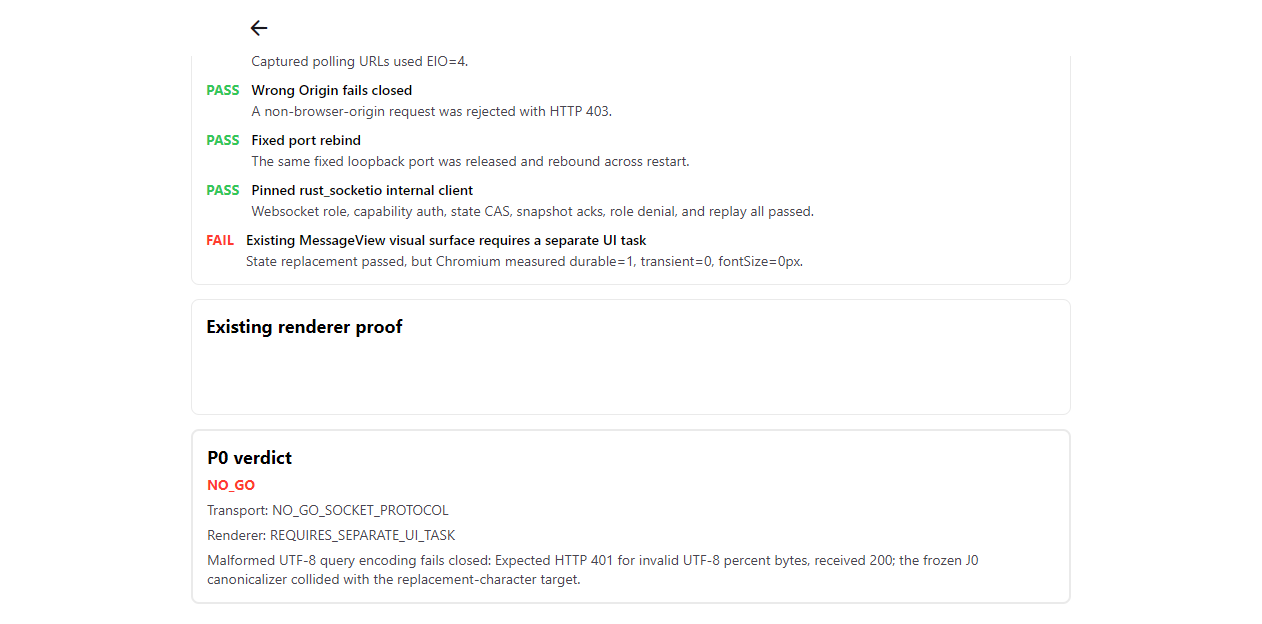
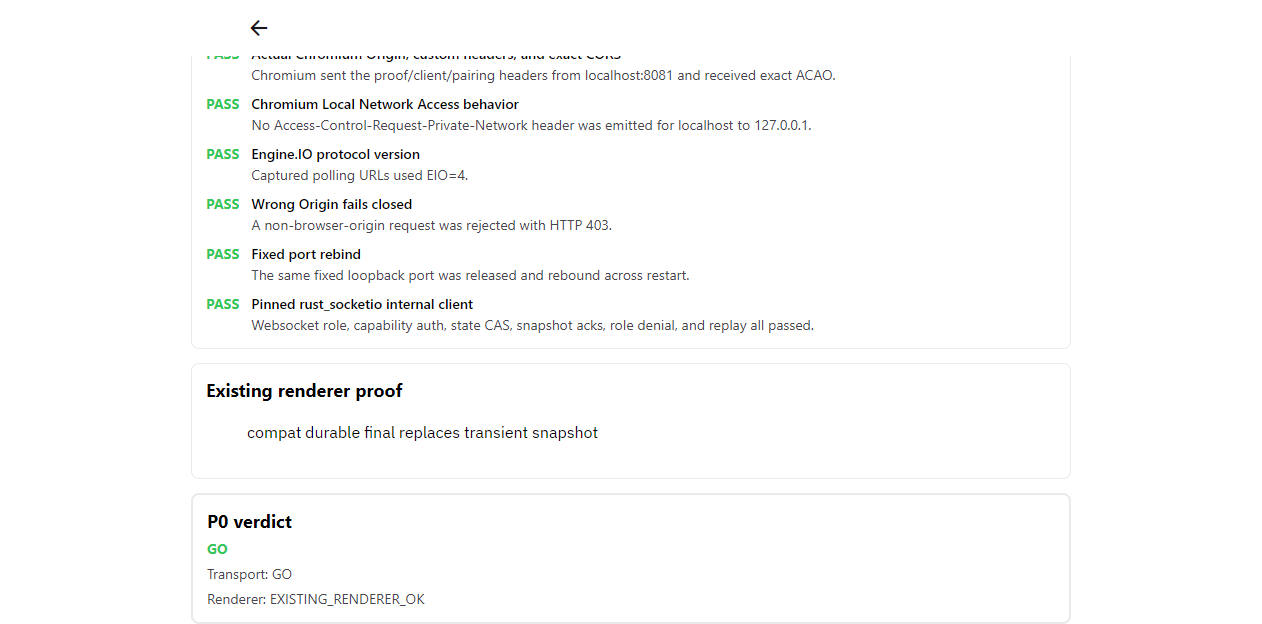
test(happy-app): rerun native Happy P0 browser proof
Prove malformed UTF-8 rejection and the exact server-stopping acknowledgement against Codex fixture 3ff55692e, then record the visible 16px renderer replacement and final redacted P0 GO evidence.

diff --git a/packages/happy-app/sources/dev/nativeHappyP0Probe.ts b/packages/happy-app/sources/dev/nativeHappyP0Probe.ts
@@ -31,12 +31,16 @@ export const NATIVE_HAPPY_P0_SESSION_ID = 'compat-session';
 export const NATIVE_HAPPY_P0_THREAD_ID = 'compat-primary-thread';
 export const NATIVE_HAPPY_P0_BROWSER_CLIENT = 'web/native-happy-p0';
 export const NATIVE_HAPPY_P0_SOCKET_IO_CLIENT_VERSION = '4.8.1';
+export const NATIVE_HAPPY_P0_RUST_FIXTURE_COMMIT = '3ff55692e7045e85ce78ebe8337ab40b55494c9c';
+export const NATIVE_HAPPY_P0_EXPECTED_FONT_SIZE_PX = 16;
 export const NATIVE_HAPPY_P0_PROOF_HEADER = 'X-Happy-Local-Device-Proof';
 export const NATIVE_HAPPY_P0_CLIENT_HEADER = 'X-Happy-Client';
 export const NATIVE_HAPPY_P0_PAIRING_SECRET_HEADER = 'X-Happy-Pairing-Secret';
 export const NATIVE_HAPPY_P0_PAIRING_NONCE_HEADER = 'X-Happy-Pairing-Nonce';
 
 const LOCAL_PROOF_DOMAIN = 'happy-local-device-proof/v1';
+const FIXTURE_ENTER_STOPPING_EVENT = 'fixture-enter-stopping';
+const FIXTURE_EXIT_STOPPING_EVENT = 'fixture-exit-stopping';
 const SOCKET_ACK_TIMEOUT_MS = 5_000;
 const RUST_CLIENT_WAIT_MS = 120_000;
 const PAIRING_WINDOW_MS = 120_000;
@@ -98,6 +102,20 @@ export function isExpectedNativeHappySnapshotSequence(
     return relevant.length === 2
         && arraysEqual(relevant.map(snapshot => snapshot.revision), [7, 8])
         && arraysEqual(relevant.map(snapshot => snapshot.text), ['compat snapshot', 'compat snapshot resumed']);
+}
+
+export function isExpectedNativeHappyStoppingAcknowledgements(
+    entered: unknown,
+    rejectedRpc: unknown,
+    exited: unknown | null,
+    disconnectedAfterExit: boolean,
+): boolean {
+    return jsonValuesEqual(entered, { ok: true, result: { status: 'stopping' } })
+        && jsonValuesEqual(rejectedRpc, { ok: false, error: 'server_stopping' })
+        && (
+            jsonValuesEqual(exited, { ok: true, result: { status: 'exiting' } })
+            || (exited === null && disconnectedAfterExit)
+        );
 }
 
 export type NativeHappyP0Phase =
@@ -833,15 +851,10 @@ export class NativeHappyP0ProbeController {
             );
             this.activeSocket = lifecycleCapture.socket;
             await this.runRpcLifecycleAcknowledgementChecks(lifecycleCapture.socket);
+            await this.runMalformedUtf8QueryCheck(this.identity);
+            await this.runServerStoppingAcknowledgementChecks(lifecycleCapture.socket);
             lifecycleCapture.socket.disconnect();
             this.activeSocket = null;
-
-            this.recordFailure(
-                'rpc-server-stopping-unavailable',
-                'Server-stopping RPC acknowledgement is unavailable in frozen J0',
-                'Frozen J0 exposes no browser-accessible shutdown transition, so exact {ok:false,error:"server_stopping"} coverage remains an independent GO blocker for the parent Rust server.',
-            );
-            await this.runMalformedUtf8QueryCheck(this.identity);
 
             this.phase = 'complete';
             this.statusText = 'Protocol run passed. Capture and inject redacted browser/version evidence to finalize the P0 verdict.';
@@ -864,6 +877,19 @@ export class NativeHappyP0ProbeController {
                 `Expected ${NATIVE_HAPPY_P0_SOCKET_IO_CLIENT_VERSION}, received ${evidence.versions.socketIoClient}.`,
             );
             this.pass('socket-client-version', 'Exact browser Socket.IO client version', `Installed and executed socket.io-client ${evidence.versions.socketIoClient}.`);
+
+            this.assert(
+                evidence.versions.rustFixture
+                    === `codex-happy-compat-spike 0.1.0 @ codex ${NATIVE_HAPPY_P0_RUST_FIXTURE_COMMIT}`,
+                'rust-fixture-version',
+                'Exact hardened Rust fixture revision',
+                `Expected fixture ${NATIVE_HAPPY_P0_RUST_FIXTURE_COMMIT}, received ${evidence.versions.rustFixture}.`,
+            );
+            this.pass(
+                'rust-fixture-version',
+                'Exact hardened Rust fixture revision',
+                `Browser proof ran against Codex fixture ${NATIVE_HAPPY_P0_RUST_FIXTURE_COMMIT}.`,
+            );
 
             const headerNames = evidence.network.actualRequestHeaderNames.map(name => name.toLowerCase());
             const requiredHeaders = [
@@ -1254,6 +1280,30 @@ export class NativeHappyP0ProbeController {
         );
     }
 
+    private async runServerStoppingAcknowledgementChecks(socket: Socket): Promise<void> {
+        const entered = await emitAck(socket, FIXTURE_ENTER_STOPPING_EVENT, {});
+        const rejectedRpc = await emitAck(socket, 'rpc-call', {
+            method: `${NATIVE_HAPPY_P0_SESSION_ID}:abort`,
+            params: {},
+        });
+        const exited = await emitAck(socket, FIXTURE_EXIT_STOPPING_EVENT, {}).catch(() => null);
+        await waitFor(() => !socket.connected, SOCKET_ACK_TIMEOUT_MS, 'fixture socket shutdown');
+        await waitForNativeHappyServerShutdown(SOCKET_ACK_TIMEOUT_MS);
+        this.assert(
+            isExpectedNativeHappyStoppingAcknowledgements(entered, rejectedRpc, exited, !socket.connected),
+            'rpc-server-stopping',
+            'Server-stopping RPC acknowledgement contract',
+            'Expected fixture stopping entry, exact {ok:false,error:"server_stopping"} abort, and a clean fixture-exit shutdown.',
+        );
+        this.pass(
+            'rpc-server-stopping',
+            'Server-stopping RPC acknowledgement contract',
+            exited
+                ? 'fixture-enter-stopping returned stopping, abort failed with exact server_stopping, and fixture-exit-stopping returned exiting.'
+                : 'fixture-enter-stopping returned stopping, abort failed with exact server_stopping, and fixture-exit-stopping closed the Socket.IO connection before its JavaScript acknowledgement while the browser independently confirmed server shutdown.',
+        );
+    }
+
     private verifyRendererReplacement(ephemerals: NativeHappySnapshotPayload[]): void {
         const snapshots = ephemerals
             .filter(snapshot => snapshot.itemId === 'compat-item');
@@ -1433,14 +1483,14 @@ export class NativeHappyP0ProbeController {
         rendererEvidence.browserTransientTextCount = measurement.transientTextCount;
         if (
             measurement.visible
-            && measurement.computedFontSizePx > 0
+            && measurement.computedFontSizePx === NATIVE_HAPPY_P0_EXPECTED_FONT_SIZE_PX
             && measurement.durableTextCount === 1
             && measurement.transientTextCount === 0
         ) {
             this.pass(
                 'renderer-visual-surface',
                 'Existing MessageView visibly renders the durable replacement',
-                'Chromium displayed one durable assistant item and no transient duplicate.',
+                `Chromium displayed one durable assistant item at ${NATIVE_HAPPY_P0_EXPECTED_FONT_SIZE_PX}px and no transient duplicate.`,
             );
         } else {
             this.recordFailure(
@@ -1548,36 +1598,36 @@ export class NativeHappyP0ProbeController {
                 },
                 {
                     name: 'rust_socketio acknowledgement-array normalization',
-                    version: 'singleton-array unwrap @ J0 65e87b23dd857c71199529bbb46120c7ca3b3e51',
+                    version: `singleton-array unwrap @ J0 ${NATIVE_HAPPY_P0_RUST_FIXTURE_COMMIT}`,
                     reason: 'rust_socketio 0.6.0 exposes acknowledgement arguments as one JSON array; the fixture unwraps exactly one argument before contract validation.',
                 },
                 {
                     name: 'rust_socketio logical-auth probe settling',
-                    version: '50ms + allowed session-alive ack @ J0 65e87b23dd857c71199529bbb46120c7ca3b3e51',
+                    version: `50ms + allowed session-alive ack @ J0 ${NATIVE_HAPPY_P0_RUST_FIXTURE_COMMIT}`,
                     reason: 'Engine.IO may report transport success before namespace middleware rejection is observable, so the fixture waits 50ms and requires an allowed acknowledgement.',
                 },
                 {
                     name: 'Socketioxide polling-upgrade guard',
-                    version: 'sid-bearing websocket deny @ J0 65e87b23dd857c71199529bbb46120c7ca3b3e51',
+                    version: `sid-bearing websocket deny @ J0 ${NATIVE_HAPPY_P0_RUST_FIXTURE_COMMIT}`,
                     reason: 'Socketioxide advertises upgrades before the authenticated role is known; fixture middleware rejects websocket upgrades carrying a polling sid.',
                 },
                 {
                     name: 'fixture-only capability handoff',
-                    version: 'Windows named pipe \\\\.\\pipe\\codex-happy-compat-43127 @ J0 65e87b23dd857c71199529bbb46120c7ca3b3e51',
+                    version: `Windows named pipe \\\\.\\pipe\\codex-happy-compat-43127 @ J0 ${NATIVE_HAPPY_P0_RUST_FIXTURE_COMMIT}`,
                     reason: 'The random internal capability crosses processes without entering argv, environment variables, structured output, or the disposable journal.',
                 },
                 {
-                    name: 'packages/happy-app/sources/polyfills/screenOrientation.ts',
-                    version: 'temporary-untracked-empty-module',
-                    reason: 'The baseline index imports this missing module; an empty dev-only placeholder was used to launch Expo and removed before commit.',
+                    name: 'fixture-only stopping transition control',
+                    version: `fixture-enter-stopping/fixture-exit-stopping @ J0 ${NATIVE_HAPPY_P0_RUST_FIXTURE_COMMIT}`,
+                    reason: 'The compatibility fixture exposes a deterministic stopping boundary so Chromium can assert the exact server_stopping RPC wrapper without adding a production protocol event.',
                 },
-            ],
-            p0Limitations: [
                 {
-                    id: 'rpc-server-stopping-not-exercised',
-                    reason: 'The frozen J0 fixture exposes no browser-accessible shutdown transition; the explicit failed check remains a GO blocker until the parent Rust server proves the exact server_stopping wrapper.',
+                    name: 'packages/happy-app/sources/polyfills/screenOrientation.ts',
+                    version: 'tracked canonical polyfill restored from 8e4118b0fbd5bb36261a2ced0bd6329b407e0eb1',
+                    reason: 'The entry-first web polyfill preserves native screen.orientation and supplies the historical WebKit fallback; Chromium used its native implementation.',
                 },
             ],
+            p0Limitations: [],
             browserNetwork: externalEvidence.network,
             rustClient: externalEvidence.rustClient,
             checks: this.checks.map(check => ({ ...check })),
@@ -1773,6 +1823,22 @@ async function waitFor(predicate: () => boolean, timeoutMs: number, label: strin
         }
         await sleep(50);
     }
+}
+
+async function waitForNativeHappyServerShutdown(timeoutMs: number): Promise<void> {
+    const startedAt = Date.now();
+    while (Date.now() - startedAt < timeoutMs) {
+        try {
+            await fetch(`${NATIVE_HAPPY_P0_SERVER_URL}/health?shutdown-probe=${Date.now()}`, {
+                cache: 'no-store',
+                mode: 'no-cors',
+            });
+        } catch {
+            return;
+        }
+        await sleep(50);
+    }
+    throw new Error('Timed out waiting for the fixture listener to close');
 }
 
 async function sleep(ms: number): Promise<void> {

diff --git a/packages/happy-app/sources/dev/nativeHappyP0Probe.test.ts b/packages/happy-app/sources/dev/nativeHappyP0Probe.test.ts
@@ -7,8 +7,10 @@ import {
     classifyNativeHappyP0Failures,
     decodeNativeHappyLocalInvite,
     encodeBase64Url,
+    isExpectedNativeHappyStoppingAcknowledgements,
     isExpectedNativeHappyPairResponse,
     isExpectedNativeHappySnapshotSequence,
+    NATIVE_HAPPY_P0_EXPECTED_FONT_SIZE_PX,
     NATIVE_HAPPY_P0_BROWSER_ORIGIN,
     NATIVE_HAPPY_P0_MACHINE_ID,
     NATIVE_HAPPY_P0_SERVER_URL,
@@ -174,6 +176,33 @@ describe('native Happy P0 probe', () => {
         expect(isExpectedNativeHappySnapshotSequence([revision7, revision8, { ...revision8, revision: 9 }])).toBe(false);
     });
 
+    it('accepts only the exact fixture stopping acknowledgement sequence', () => {
+        expect(isExpectedNativeHappyStoppingAcknowledgements(
+            { ok: true, result: { status: 'stopping' } },
+            { ok: false, error: 'server_stopping' },
+            { ok: true, result: { status: 'exiting' } },
+            true,
+        )).toBe(true);
+        expect(isExpectedNativeHappyStoppingAcknowledgements(
+            { ok: true, result: { status: 'stopping' } },
+            { ok: false, error: 'server_stopping' },
+            null,
+            true,
+        )).toBe(true);
+        expect(isExpectedNativeHappyStoppingAcknowledgements(
+            { ok: true, result: { status: 'stopping' } },
+            { ok: true, result: { status: 'idle' } },
+            { ok: true, result: { status: 'exiting' } },
+            true,
+        )).toBe(false);
+        expect(isExpectedNativeHappyStoppingAcknowledgements(
+            { ok: true, result: { status: 'stopping' } },
+            { ok: false, error: 'server_stopping' },
+            null,
+            false,
+        )).toBe(false);
+    });
+
     it('rejects runtime secrets in the redacted result', () => {
         const result = {
             redaction: {
@@ -247,11 +276,20 @@ describe('native Happy P0 probe', () => {
         // The fixed web behavior: durable text visible at a nonzero computed font size.
         const passed = controller.recordRendererVisualEvidence({
             visible: true,
-            computedFontSizePx: 16,
+            computedFontSizePx: NATIVE_HAPPY_P0_EXPECTED_FONT_SIZE_PX,
             durableTextCount: 1,
             transientTextCount: 0,
         });
         expect(passed?.status).toBe('PASS');
+
+        controller.seedRendererForVisualCheck();
+        const unexpectedPositiveSize = controller.recordRendererVisualEvidence({
+            visible: true,
+            computedFontSizePx: NATIVE_HAPPY_P0_EXPECTED_FONT_SIZE_PX - 1,
+            durableTextCount: 1,
+            transientTextCount: 0,
+        });
+        expect(unexpectedPositiveSize?.status).toBe('FAIL');
 
         // The pre-fix regression: a 0px computed font size must still fail the gate,
         // even though the state replacement semantics are identical.
